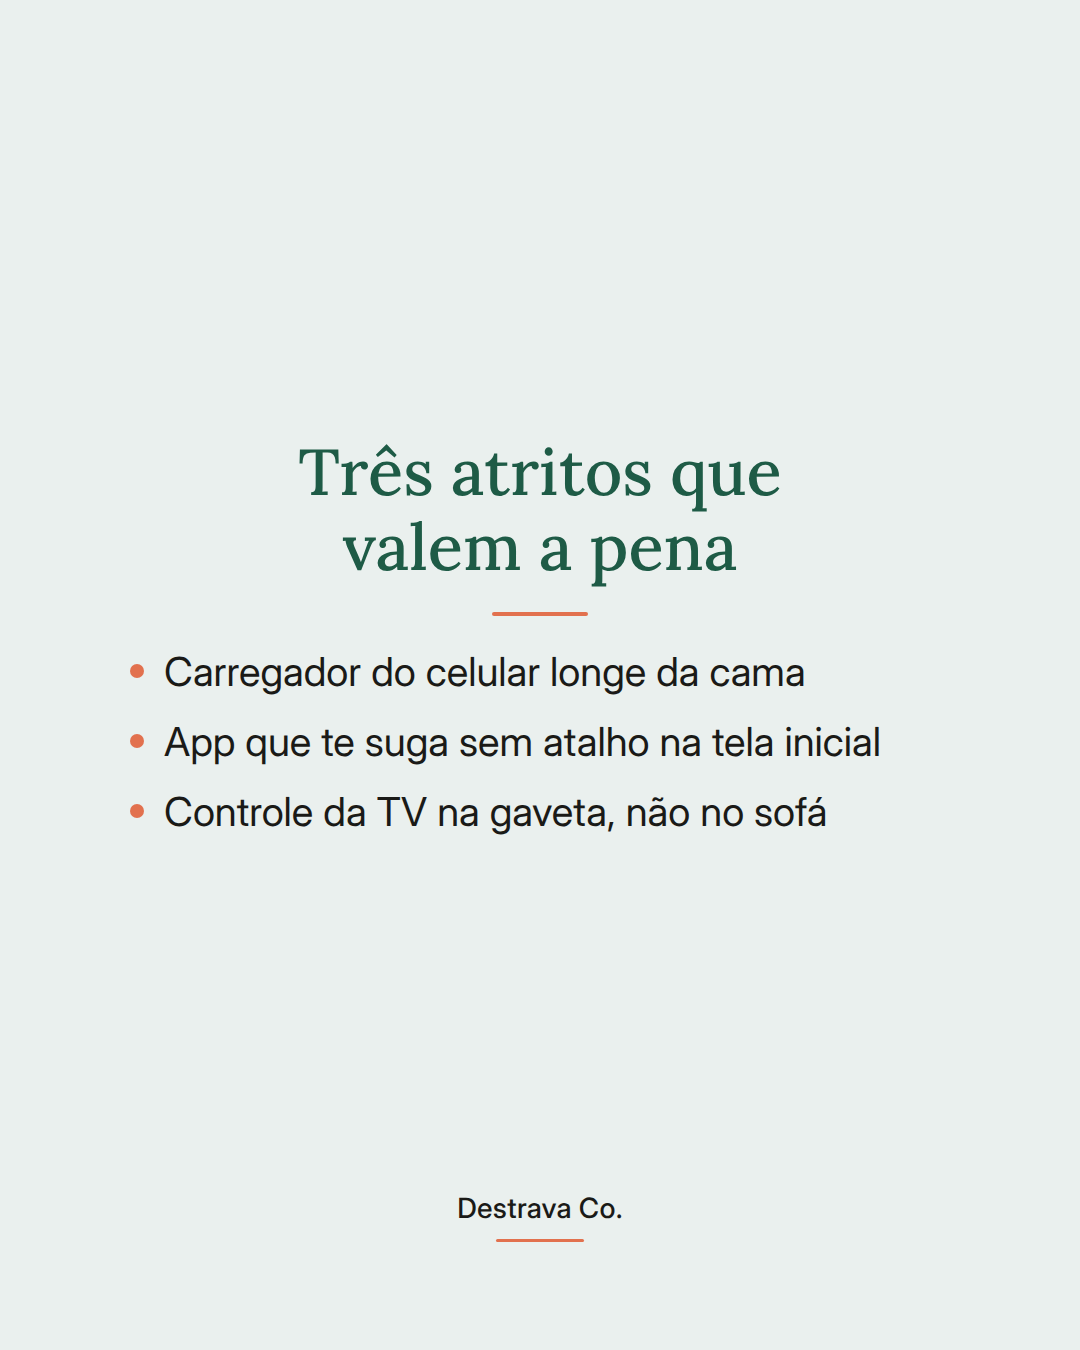
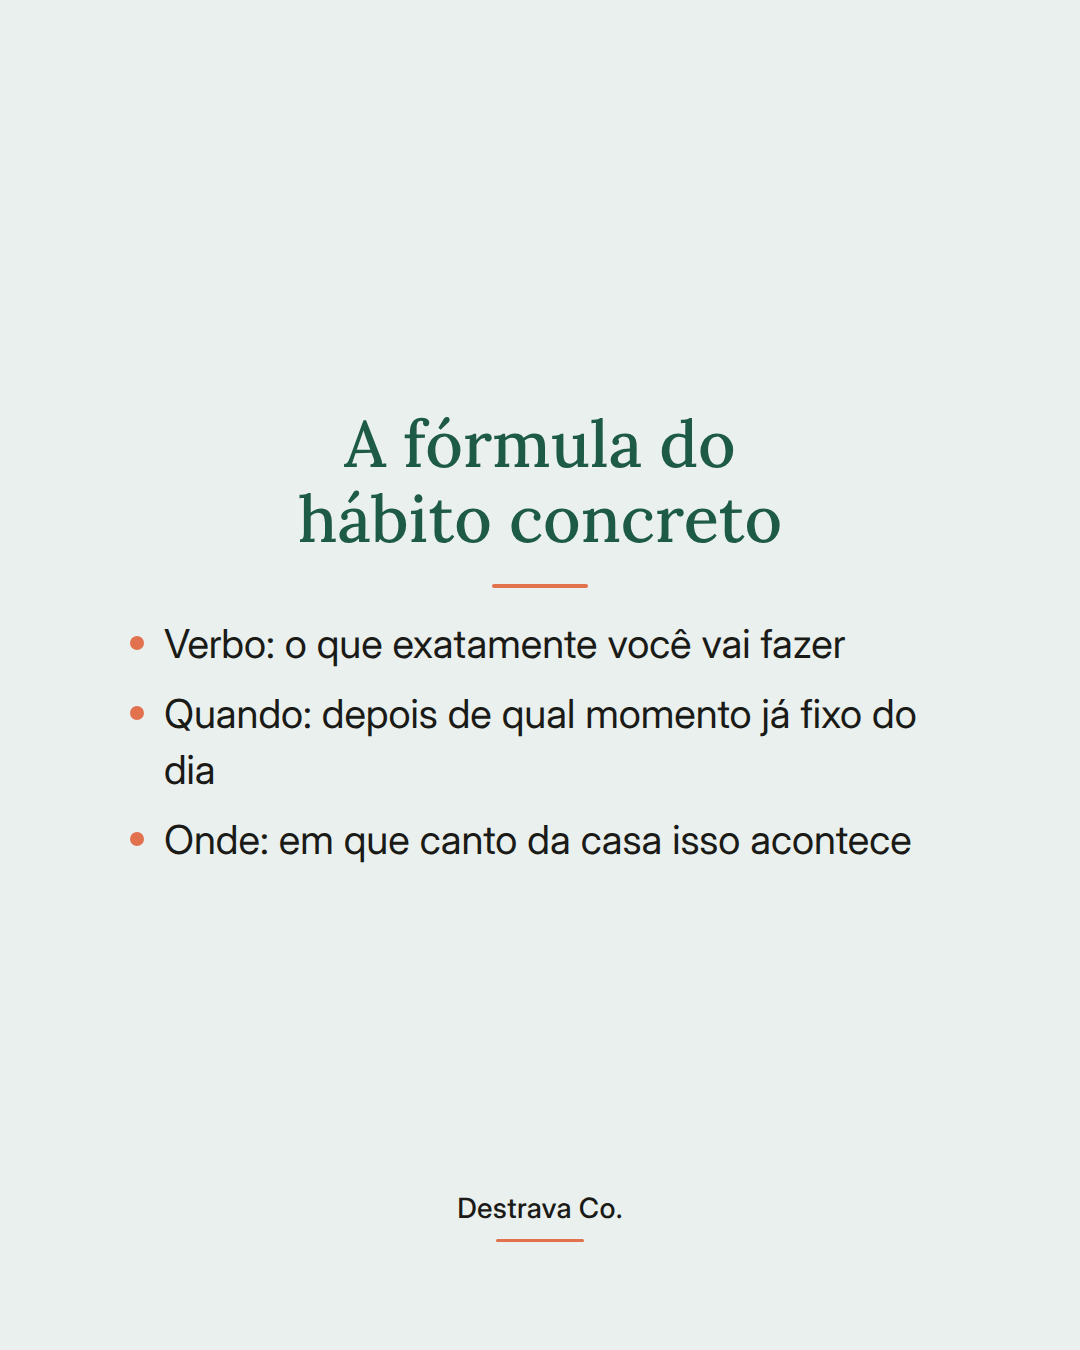
content: peças Instagram 2026_10_23

Changed region(s): [[0.1222, 0.4667, 0.8556, 0.6533], [0.275, 0.3111, 0.7333, 0.4356]]

diff --git a/public/content/2026_10_23/index.html b/public/content/2026_10_23/index.html
@@ -19,22 +19,24 @@
 </head>
 <body>
 <h1>Corpo · capa A (wash4)</h1>
-<div class="meta">2026-10-23 · gerado em 2026-10-23T10:01:51 · sticker sugerido nos Stories: enquete</div>
+<div class="meta">2026-10-23 · gerado em 2026-10-24T01:37:42 · sticker sugerido nos Stories: enquete</div>
 <h2>Carrossel</h2>
-<div class="strip"><img src="2026_10_23_-_Carrossel_Corpo_01.png" alt="Lâmina de fundo wash4 da linha Corpo com o título Dificulte o desvio em vez de brigar com você em campo escuro." title="2026_10_23_-_Carrossel_Corpo_01.png"><img src="2026_10_23_-_Carrossel_Corpo_02.png" alt="Lâmina de fundo bem claro wash1 com o título O caminho mais curto sempre vence e um texto curto sobre mudar o que está à mão." title="2026_10_23_-_Carrossel_Corpo_02.png"><img src="2026_10_23_-_Carrossel_Corpo_03.png" alt="Lâmina de fundo bem claro wash1 com o título Três atritos que valem a pena e uma lista de três ajustes simples de ambiente." title="2026_10_23_-_Carrossel_Corpo_03.png"><img src="2026_10_23_-_Carrossel_Corpo_04.png" alt="Lâmina de fundo bem claro wash1 com o título Não é proibir, é adiar e um texto sobre ganhar dez segundos de consciência." title="2026_10_23_-_Carrossel_Corpo_04.png"><img src="2026_10_23_-_Carrossel_Corpo_05.png" alt="Lâmina de fundo campo profundo com texto creme convidando pro Destrava 21 e botão no tom de acento com link na bio." title="2026_10_23_-_Carrossel_Corpo_05.png"></div>
+<div class="strip"><img src="2026_10_23_-_Carrossel_Corpo_01.png" alt="Lâmina de capa com fundo wash4 da linha Corpo e título em campo dizendo que me cuidar mais é intenção, não hábito." title="2026_10_23_-_Carrossel_Corpo_01.png"><img src="2026_10_23_-_Carrossel_Corpo_02.png" alt="Lâmina de miolo com fundo wash1 bem claro e título no campo profundo explicando por que a intenção vaga não vira hábito." title="2026_10_23_-_Carrossel_Corpo_02.png"><img src="2026_10_23_-_Carrossel_Corpo_03.png" alt="Lâmina de miolo com fundo wash1 bem claro listando verbo, quando e onde como partes do hábito concreto." title="2026_10_23_-_Carrossel_Corpo_03.png"><img src="2026_10_23_-_Carrossel_Corpo_04.png" alt="Lâmina de miolo com fundo wash1 bem claro mostrando a troca de uma meta vaga por uma ação óbvia." title="2026_10_23_-_Carrossel_Corpo_04.png"><img src="2026_10_23_-_Carrossel_Corpo_05.png" alt="Lâmina de CTA com fundo campo profundo, texto creme e botão no tom de acento convidando a conhecer o Destrava 21." title="2026_10_23_-_Carrossel_Corpo_05.png"></div>
 <h2>Stories</h2>
-<div class="strip"><img class="story" src="2026_10_23_-_Stories_Corpo_01.png" alt="Story de fundo wash4 da linha Corpo com o título Dificulte o desvio, não a sua vida e convite pra deslizar pro feed." title="2026_10_23_-_Stories_Corpo_01.png"><img class="story" src="2026_10_23_-_Stories_Corpo_02.png" alt="Stories em fundo verde profundo apresentando o programa Destrava 21 Mulheres com o endereço da página em destaque no chip coral." title="2026_10_23_-_Stories_Corpo_02.png"></div>
+<div class="strip"><img class="story" src="2026_10_23_-_Stories_Corpo_01.png" alt="Story com fundo wash4 da linha Corpo e título em campo dizendo que a meta é vaga demais pra virar hábito." title="2026_10_23_-_Stories_Corpo_01.png"><img class="story" src="2026_10_23_-_Stories_Corpo_02.png" alt="Stories em fundo verde profundo apresentando o programa Destrava 21 Mulheres com o endereço da página em destaque no chip coral." title="2026_10_23_-_Stories_Corpo_02.png"></div>
 <div class="meta">1º · stories post do dia · <a href="2026_10_23_-_Stories_Corpo_01.png" download="2026_10_23_-_Stories_Corpo_01.png">⬇ baixar</a> · sticker de link → post do dia (permalink em publicado.json depois de publicar) · sticker extra sugerido: enquete</div><div class="meta">2º · stories oferta · <a href="2026_10_23_-_Stories_Corpo_02.png" download="2026_10_23_-_Stories_Corpo_02.png">⬇ baixar</a> · sticker de link → <a href="https://destravaco.com.br/d21-mulheres-inicial/">https://destravaco.com.br/d21-mulheres-inicial/</a></div>
 <div class="meta">Stories não vão pela API: baixe e poste no app colando o sticker de link.</div>
 <h2>Legenda</h2>
-<pre>Hábito que sobrevive à semana ruim não depende de força de vontade, depende do que está mais perto da sua mão.
+<pre>Hábito não nasce de intenção: nasce de verbo, horário e lugar.
 
-Na correria a gente pega o atalho. Celular na mesa de cabeceira, controle no sofá, aplicativo a um toque. Nada disso é falha de caráter, é desenho de ambiente.
+Me cuidar mais, me mexer mais, me organizar melhor. Tudo isso soa bonito e não acontece, porque deixa a decisão pra um dia que já chega cheio.
 
-A virada é simples: em vez de empurrar o hábito bom morro acima, coloque dez segundos a mais no caminho do desvio. Carregador na cozinha. Controle na gaveta. Tela inicial mais vazia. Só isso já devolve a chance de escolher.
+Quando você define o verbo (o que), o quando (depois de qual momento que já é automático) e o onde (em que canto da casa), a sua cabeça para de negociar. A ação fica óbvia demais pra adiar.
 
-Salva pra testar hoje à noite e compartilha com uma amiga que anda se culpando à toa. Se quiser montar isso com método, o Destrava 21 te guia pelo passo a passo.
+E o melhor: hábito concreto é fácil de retomar. Você não precisa de motivação nova, só voltar pro mesmo verbo, no mesmo horário, no mesmo lugar.
 
-<span class="tags">#habitossaudaveis #constancia #autocuidado #rotinacorrida #mulheresreais</span></pre>
+Salva pra reescrever suas metas hoje e manda pra uma amiga que vive recomeçando. Se quiser um caminho guiado, o Destrava 21 te espera.
+
+<span class="tags">#constancia #habitossaudaveis #rotinacorrida #autocuidado #mulheresreais</span></pre>
 </body>
 </html>
